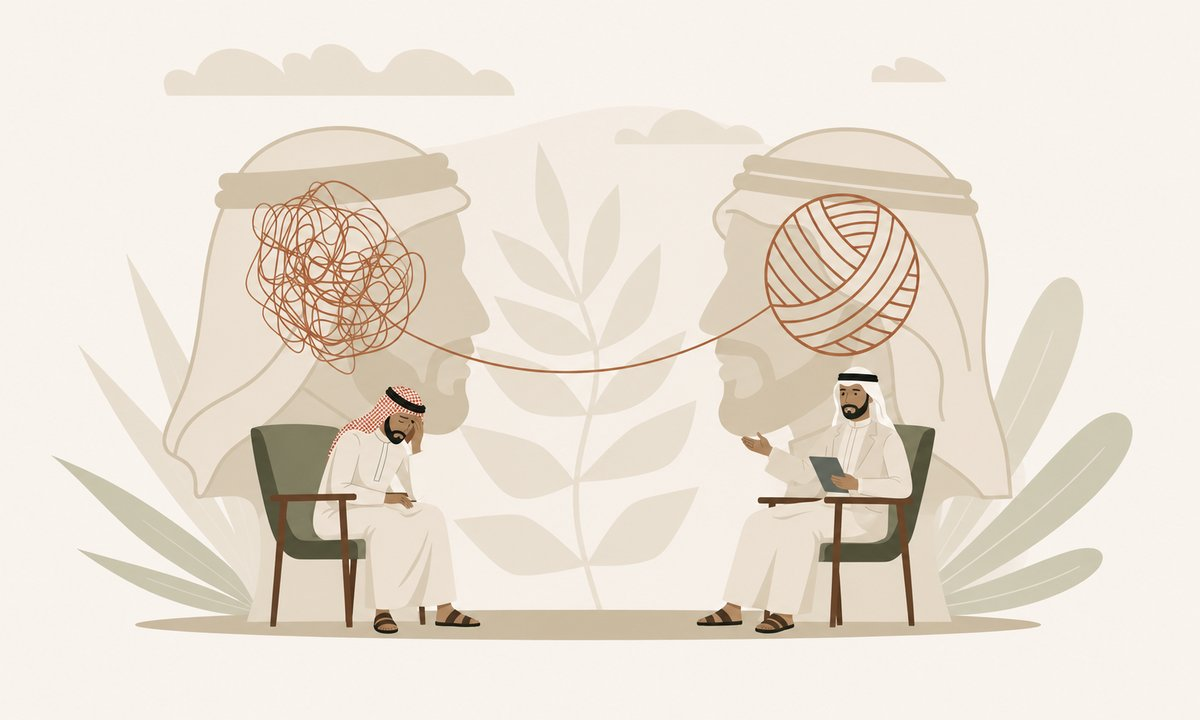
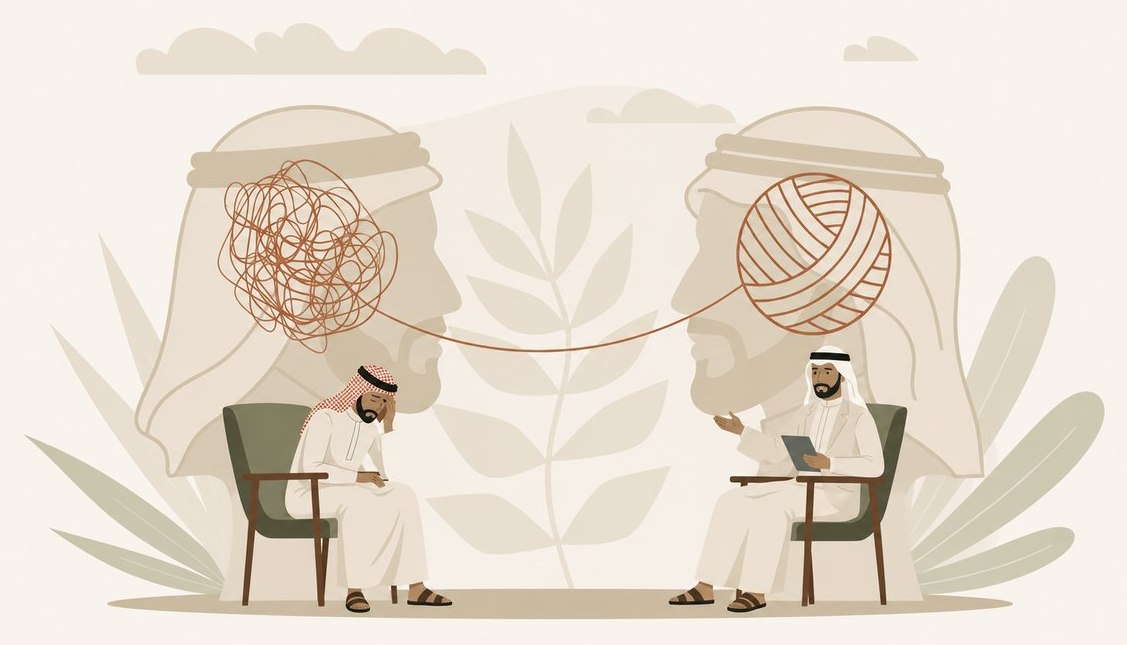
Add files via upload

diff --git a/index.html b/index.html
@@ -38,14 +38,13 @@
   .hero-text{flex:1.1;}
   .hero-text h1{font-size:3.1rem; color:var(--ink); margin-bottom:22px;}
   .hero-text p{font-size:1.15rem; color:#4B5850; max-width:520px;}
-  .hero-visual{flex:1; position:relative; display:flex; justify-content:center; align-items:center; min-height:280px;}
-  .hero-visual::before{content:""; position:absolute; width:380px; height:380px; max-width:80%; aspect-ratio:1/1; background:radial-gradient(circle, rgba(184,115,79,.16) 0%, rgba(124,139,122,.13) 45%, rgba(124,139,122,0) 72%); border-radius:50%; filter:blur(2px); z-index:0;}
-  .hero-visual img{position:relative; z-index:1; width:100%; max-width:460px; max-height:340px; object-fit:contain; -webkit-mask-image:radial-gradient(ellipse 60% 60% at center, #000 58%, transparent 100%); mask-image:radial-gradient(ellipse 60% 60% at center, #000 58%, transparent 100%);}
+  .hero-visual{flex:1; position:relative; display:flex; justify-content:center; align-items:center; min-height:260px;}
+  .hero-visual img{position:relative; z-index:1; width:100%; max-width:480px; max-height:320px; object-fit:contain; -webkit-mask-image:radial-gradient(ellipse 60% 60% at center, #000 20%, rgba(0,0,0,.5) 48%, transparent 78%); mask-image:radial-gradient(ellipse 60% 60% at center, #000 20%, rgba(0,0,0,.5) 48%, transparent 78%);}
   .hero-visual .dot{position:absolute; border-radius:50%; z-index:2; animation:heroFloat 4.5s ease-in-out infinite;}
   .hero-visual .dot.d1{width:14px; height:14px; background:var(--clay); top:10%; right:10%;}
   .hero-visual .dot.d2{width:10px; height:10px; background:var(--sage); bottom:14%; left:8%; animation-duration:5.5s; animation-direction:reverse;}
   @keyframes heroFloat{ 0%,100%{transform:translateY(0);} 50%{transform:translateY(-10px);} }
-  @media(max-width:700px){ .hero-visual{min-height:auto;} .hero-visual::before{width:260px; height:260px;} .hero-visual img{max-height:230px;} .hero-visual .dot{transform:scale(.8);} }
+  @media(max-width:700px){ .hero-visual{min-height:auto;} .hero-visual img{max-height:210px;} .hero-visual .dot{transform:scale(.8);} }
   @media(max-width:900px){ .hero .container{flex-direction:column; text-align:center;} .hero-text p{margin:0 auto;} .hero-text h1{font-size:2.3rem;} }
   .cta-duo{padding:0 0 90px;}
   .cta-duo .container{display:flex; align-items:center; justify-content:center; gap:22px; flex-wrap:wrap;}
@@ -105,6 +104,10 @@
   .footer-col h4{color:#fff; font-size:1.05rem; margin-bottom:16px; font-family:var(--font-display);}
   .footer-col a{display:block; color:#C9CFC7; margin-bottom:10px; font-size:.92rem;}
   .footer-bottom{border-top:1px solid rgba(255,255,255,0.1); padding-top:22px; text-align:center; font-size:.85rem; color:#8B9389;}
+  /* ===== حركة الظهور التدريجي عند التمرير ===== */
+  [data-reveal]{opacity:0; transform:translateY(22px); transition:opacity .6s ease, transform .6s ease;}
+  [data-reveal].revealed{opacity:1; transform:translateY(0);}
+  @media(prefers-reduced-motion: reduce){ [data-reveal]{transition:none; opacity:1; transform:none;} }
 </style>
 </head>
 <body>
@@ -146,7 +149,7 @@
 
 <section id="counselors" data-section="counselors">
   <div class="container">
-    <div class="section-head">
+    <div class="section-head" data-reveal>
       <div class="eyebrow" style="justify-content:center">فريقنا</div>
       <h2>مستشارون معتمدون بخبرة أسرية</h2>
     </div>
@@ -156,12 +159,12 @@
 
 <section class="info-alt" id="privacy" data-section="privacy">
   <div class="container info-flex">
-    <div class="col">
+    <div class="col" data-reveal>
       <div class="badge-lock">🔒</div>
       <h2 id="privacyTitle"></h2>
       <p id="privacyBody"></p>
     </div>
-    <div class="col privacy-visual">
+    <div class="col privacy-visual" data-reveal style="transition-delay:.1s">
       <img id="privacyVisual" src="/assets/privacy.jpg" alt="خصوصية وسرية تامة لكل استشارة">
     </div>
   </div>
@@ -169,13 +172,13 @@
 
 <section id="firstSession" data-section="firstSession">
   <div class="container info-flex reverse">
-    <div class="col">
+    <div class="col" data-reveal>
       <div class="eyebrow">قبل أول موعد</div>
       <h2 id="firstTitle"></h2>
       <p id="firstBody"></p>
       <ul class="steps-list" id="stepsList"></ul>
     </div>
-    <div class="col">
+    <div class="col" data-reveal style="transition-delay:.1s">
       <svg viewBox="0 0 300 220" width="100%" aria-hidden="true">
         <circle cx="100" cy="110" r="46" fill="#F8F6F1" stroke="#DAD5C8"/><circle cx="200" cy="110" r="46" fill="#EFEDE6" stroke="#DAD5C8"/>
         <path d="M60 170 Q150 200 240 170" stroke="#B8734F" stroke-width="3" fill="none" stroke-dasharray="6 6"/>
@@ -186,31 +189,31 @@
 
 <section class="info-alt" id="faq" data-section="faq">
   <div class="container" style="max-width:800px;">
-    <div class="section-head"><div class="eyebrow" style="justify-content:center">الأسئلة الشائعة</div><h2>كل ما تحتاج معرفته قبل الحجز</h2></div>
+    <div class="section-head" data-reveal><div class="eyebrow" style="justify-content:center">الأسئلة الشائعة</div><h2>كل ما تحتاج معرفته قبل الحجز</h2></div>
     <div class="faq-list" id="faqList"></div>
   </div>
 </section>
 
 <section class="info-alt2" id="hours" data-section="hours">
   <div class="container hp-grid">
-    <div><h3>أوقات العمل</h3><div id="hoursList"></div></div>
-    <div><h3>طرق الدفع المقبولة</h3><div class="pay-tags" id="paymentsList"></div></div>
+    <div data-reveal><h3>أوقات العمل</h3><div id="hoursList"></div></div>
+    <div data-reveal style="transition-delay:.1s"><h3>طرق الدفع المقبولة</h3><div class="pay-tags" id="paymentsList"></div></div>
   </div>
 </section>
 
 <section id="certifications" data-section="certifications">
   <div class="container">
-    <div class="section-head"><h2>الشهادات والاعتمادات</h2></div>
+    <div class="section-head" data-reveal><h2>الشهادات والاعتمادات</h2></div>
     <div class="certs-row" id="certsRow"></div>
   </div>
 </section>
 
 <section class="info-alt" id="contact" data-section="contact">
   <div class="container">
-    <div class="section-head"><h2>تواصل معنا</h2></div>
+    <div class="section-head" data-reveal><h2>تواصل معنا</h2></div>
     <div class="contact-grid">
       <ul class="contact-list" id="contactList"></ul>
-      <div class="map-box">[موضع الخريطة التفاعلية — يُدرج لاحقًا]</div>
+      <div class="map-box" data-reveal style="transition-delay:.15s">[موضع الخريطة التفاعلية — يُدرج لاحقًا]</div>
     </div>
   </div>
 </section>
@@ -268,14 +271,14 @@ async function loadContent(){
   document.getElementById('firstBody').textContent = c.firstSession.body;
   document.getElementById('stepsList').innerHTML = c.firstSession.steps.map((s,i)=>`<li><span class="num">${i+1}</span>${s}</li>`).join('');
 
-  document.getElementById('counselorsGrid').innerHTML = c.counselors.map(co => `
-    <div class="counselor-card">
+  document.getElementById('counselorsGrid').innerHTML = c.counselors.map((co,i) => `
+    <div class="counselor-card" data-reveal style="transition-delay:${(i%3)*0.08}s">
       <div class="avatar">${co.image ? `<img src="${co.image}" alt="${co.name}">` : co.name.split(' ').map(w=>w[0]).slice(0,2).join('')}</div>
       <h3>${co.name}</h3><div class="counselor-role">${co.role}</div><div class="counselor-cred">${co.credentials}</div>
     </div>`).join('');
 
   document.getElementById('faqList').innerHTML = c.faq.map((f,i) => `
-    <div class="faq-item ${i===0?'open':''}">
+    <div class="faq-item ${i===0?'open':''}" data-reveal style="transition-delay:${Math.min(i,5)*0.06}s">
       <div class="faq-q"><span>${f.q}</span><span class="icon">＋</span></div>
       <div class="faq-a">${f.a}</div>
     </div>`).join('');
@@ -288,13 +291,13 @@ async function loadContent(){
 
   document.getElementById('hoursList').innerHTML = c.hours.map(h => `<div class="hours-row"><span>${h.label}</span><span>${h.value}</span></div>`).join('');
   document.getElementById('paymentsList').innerHTML = c.payments.map(p => `<span class="pay-tag">${p}</span>`).join('');
-  document.getElementById('certsRow').innerHTML = c.certifications.map(ct => `<span class="cert-chip">${ct.image?`<img src="${ct.image}">`:'✅'} ${ct.label}</span>`).join('');
+  document.getElementById('certsRow').innerHTML = c.certifications.map((ct,i) => `<span class="cert-chip" data-reveal style="transition-delay:${(i%4)*0.07}s">${ct.image?`<img src="${ct.image}">`:'✅'} ${ct.label}</span>`).join('');
 
   document.getElementById('contactList').innerHTML = `
-    <li><span class="ic">📞</span> ${c.contact.phone}</li>
-    <li><span class="ic">💬</span> واتساب: ${c.contact.whatsapp}</li>
-    <li><span class="ic">✉</span> ${c.contact.email}</li>
-    <li><span class="ic">📍</span> ${c.contact.address}</li>`;
+    <li data-reveal><span class="ic">📞</span> ${c.contact.phone}</li>
+    <li data-reveal style="transition-delay:.06s"><span class="ic">💬</span> واتساب: ${c.contact.whatsapp}</li>
+    <li data-reveal style="transition-delay:.12s"><span class="ic">✉</span> ${c.contact.email}</li>
+    <li data-reveal style="transition-delay:.18s"><span class="ic">📍</span> ${c.contact.address}</li>`;
   document.getElementById('footerPhone').textContent = c.contact.phone;
   document.getElementById('footerEmail').textContent = c.contact.email;
   document.getElementById('fabWhatsapp').href = 'https://wa.me/' + c.contact.whatsapp.replace(/[^0-9]/g,'');
@@ -307,6 +310,14 @@ async function loadContent(){
     document.querySelectorAll(`[data-section="${key}"]`).forEach(el => el.style.display = visible ? '' : 'none');
     document.querySelectorAll(`[data-section-link="${key}"]`).forEach(el => el.style.display = visible ? '' : 'none');
   });
+
+  // تفعيل حركة الظهور التدريجي عند التمرير لكل العناصر التي أُضيفت للتو
+  const revealObserver = new IntersectionObserver((entries) => {
+    entries.forEach(entry => {
+      if (entry.isIntersecting) { entry.target.classList.add('revealed'); revealObserver.unobserve(entry.target); }
+    });
+  }, { threshold: 0.15, rootMargin: '0px 0px -30px 0px' });
+  document.querySelectorAll('[data-reveal]').forEach(el => revealObserver.observe(el));
 }
 loadContent();
 </script>
